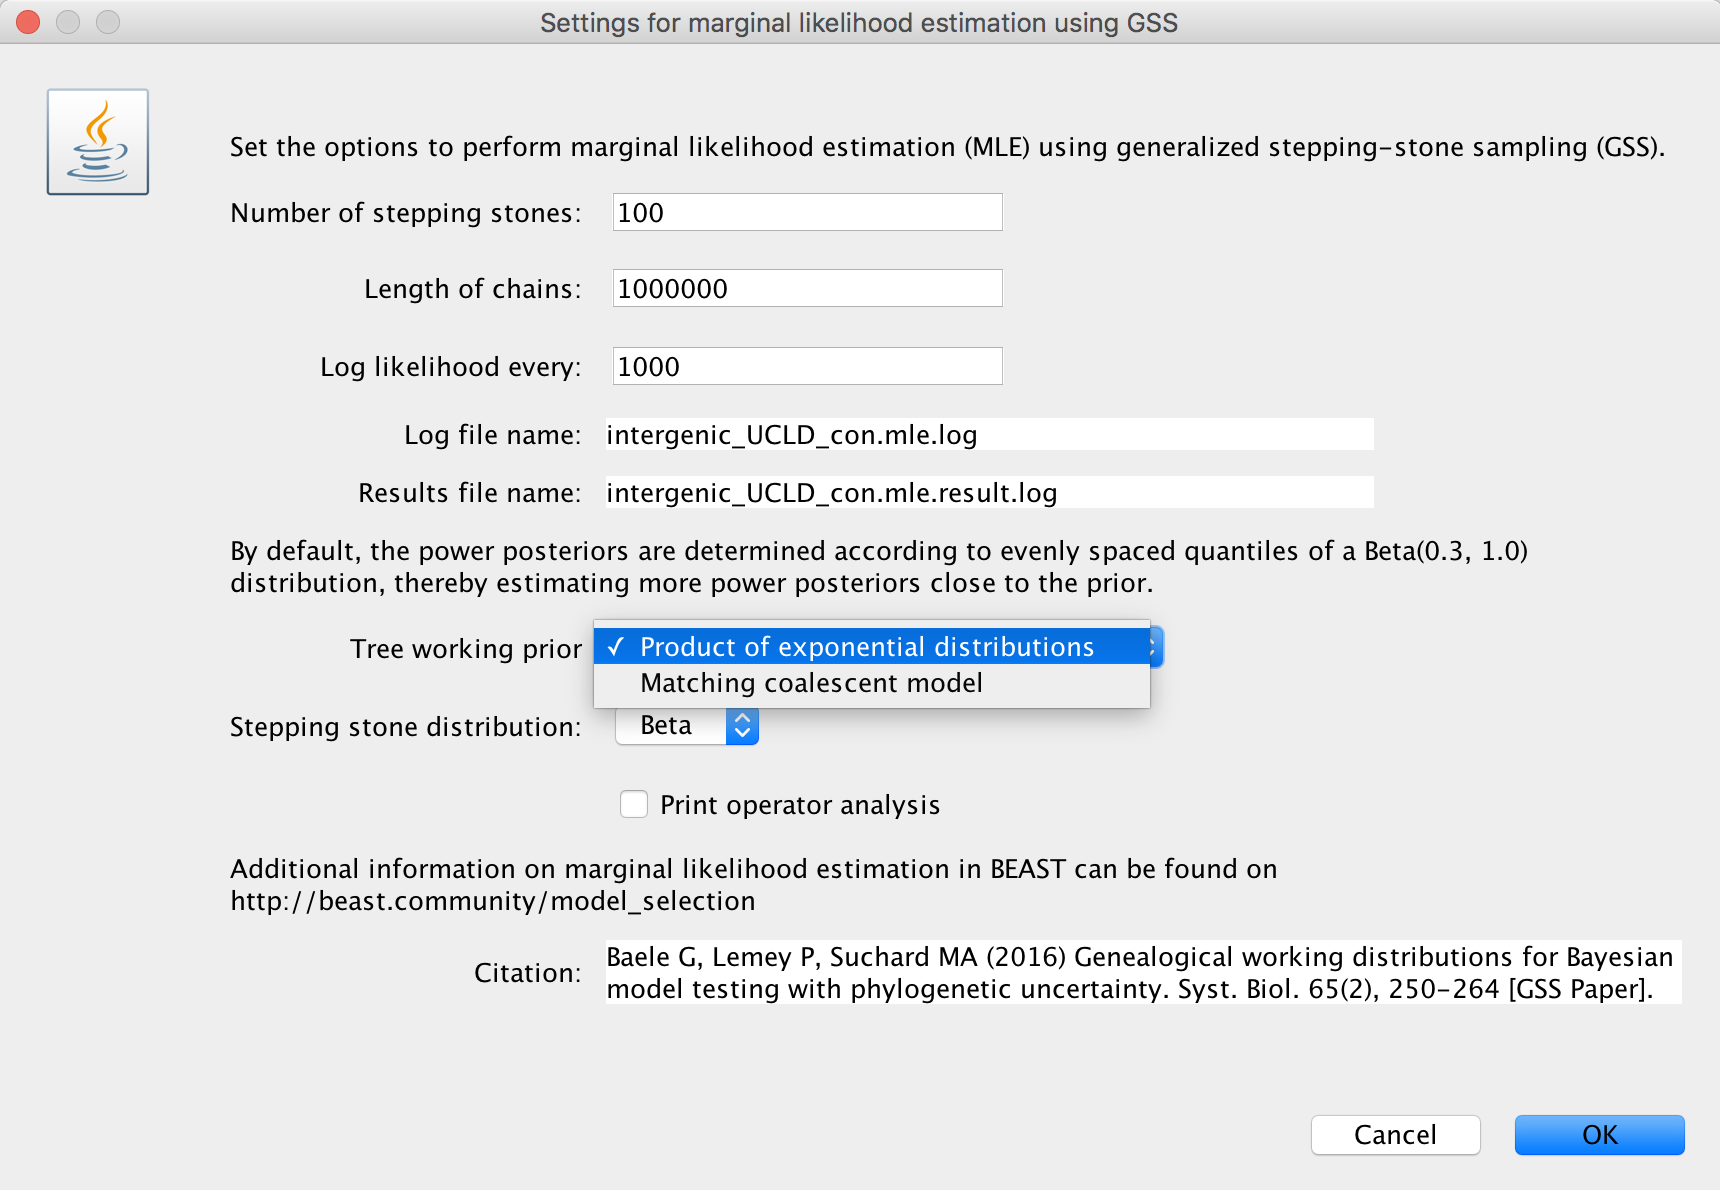
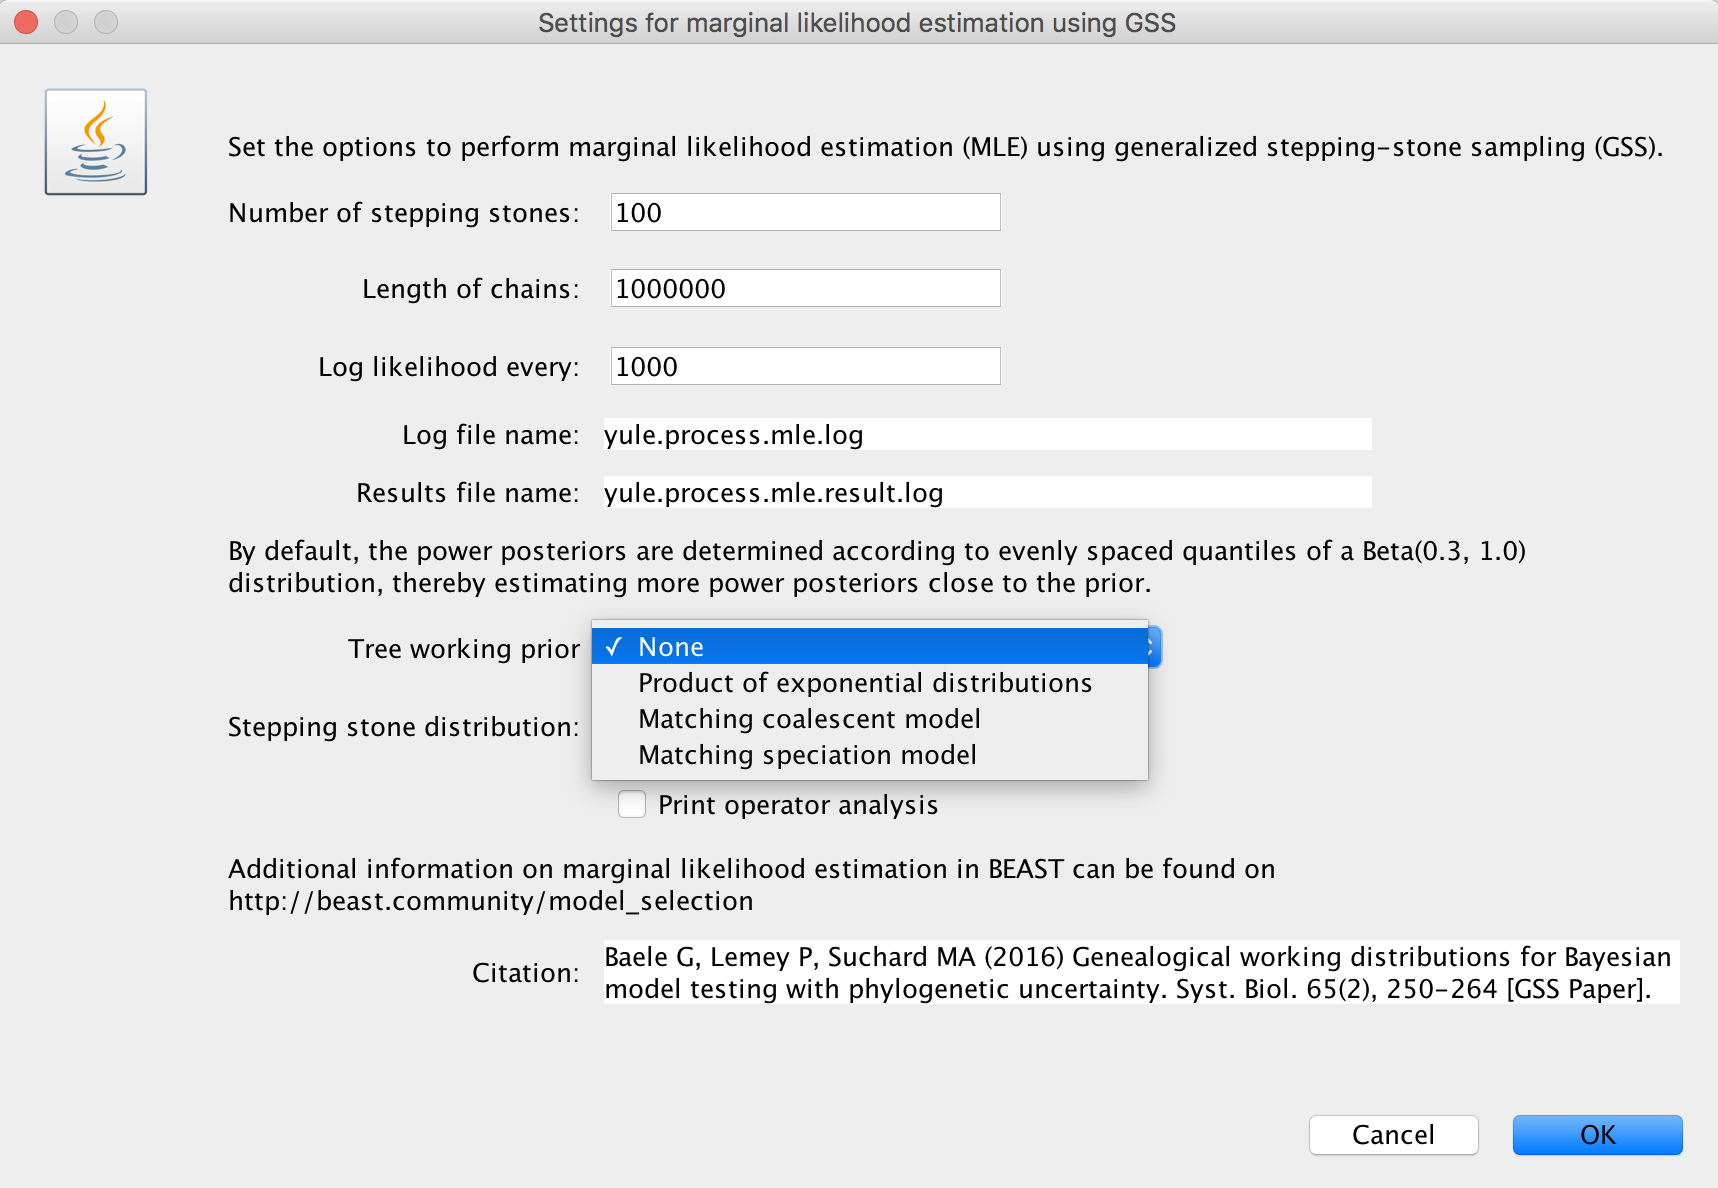
added section on matching speciation models for GSS

diff --git a/tutorials/model_selection_2/model_selection_2.md b/tutorials/model_selection_2/model_selection_2.md
@@ -15,7 +15,7 @@ Recent years have seen the development of several new approaches to perform mode
 We aim to relax this latter assumption by providing two working distributions in a genealogical framework (Baele et al., 2016, Syst. Biol.), showing that a generalized stepping-stone sampling approach which accommodates phylogenetic uncertainty avoids possible numerical issues that may plague path sampling and stepping-stone sampling. 
 Further, our proposed approach also has lower variance and yields accurate estimates of the (log) marginal likelihood, whereas PS and SS tend to overestimate the (log) marginal likelihood when vague priors are used (which is almost always the case).
 
-### Coalescent models
+### Coalescent models {#coalescent}
 
 #### BEAUti
 
@@ -34,8 +34,13 @@ Upon selecting 'generalized stepping-stone sampling', clicking the 'Settings' bu
 
 {% include image.html file="GSSMLESettings.png" prefix="tutorials/model_selection_2/" indent="64px" width="640px" alt="GSS MLE settings" caption="" %}
 
-Two choices are available for a suitable 'Tree working prior': either a 'Product of exponential distributions' or a 'Matching coalescent model'.
-More information on these working priors can be found below, in the sections ['Product of exponential distributions'](#firstworkingprior) and ['Matching coalescent model'](#secondworkingprior).
+Three choices (the initial choice 'None' cannot be chosen to generate an XML) are available for a suitable 'Tree working prior': either a 'Product of exponential distributions', a 'Matching coalescent model' or a 'Matching speciation model'.
+If the default selection 'None' is not adjusted, BEAUti will issue a warning message, instructing you to choose an appropriate tree working prior.
+
+{% include image.html file="SuitableTreeWorkingPrior.png" prefix="tutorials/model_selection_2/" indent="64px" width="640px" alt="Tree working prior warning message" caption="" %}
+
+More information on these working priors can be found below, in the sections ['Product of exponential distributions'](#firstworkingprior), ['Matching coalescent model'](#secondworkingprior) and ['Matching speciation model'](#speciation).
+**Important:** when a coalescent model has been selected for the BEAST analysis, the 'Matching speciation model' option **cannot** be selected as a tree working prior.
 
 We suggest to specify a number of path steps of either 50 or 100, with the lenght of each chain being at least 250.000 iterations.
 In general, it's probably a good idea to run a total amount of iterations (i.e. number of path steps times chain length) equal to the length of the standard BEAST analysis performed to estimate the various parameters.
@@ -405,15 +410,19 @@ Note again that you will have to change the values for the chainLength (and poss
 
 The other XML blocks remain identical compared to the first genealogical working distribution approach.
 
-### Speciation models
+### Speciation models {#speciation}
+
+### BEAUti
+
+While we don't discuss it in our paper (Baele et al., 2016, Syst. Biol.), a similar procedure can be used to estimate the model fit of speciation models, such as the Yule pure birth model. 
+BEAUti now supports a 'Matching speciation model' for a Yule pure birth process prior.
+The procedure for selecting such a tree working prior in BEAUti is the same [as for coalescent models](#coalescent).
+Users have to be aware that when a Yule pure birth model has been selected for their analysis, only the 'Matching speciation model' is valid when performing GSS.
 
 #### XML Specification
 
-While we don't discuss it in our paper (Baele et al., 2016, Syst. Biol.), a similar procedure can be used to estimate the model fit of speciation models, such as the Yule pure birth model. 
-The XML specification is very similar to that discussed above for coalescent models. 
+The XML specification for using GSS with such a speciation model is very similar to that discussed above for coalescent models. 
 For example, for a Yule pure birth model, the birth rate will be estimated and written to file during the initial MCMC estimation.
-
-**Note:** currently BEAUti doesn't yet support the construction of a tree working prior for speciation models, but will do so in a future release.
 
 The working distribution constructs can then be a 'matching speciation model', which involves constructing the same speciation model as for the MCMC analysis, but setting its parameters using estimates from the posterior, i.e. from the file containing the parameter estimates (yule.process.log in our example here). 
 The matching speciation model is constructed using the following XML block, which needs to be placed below the mcmc-block:
